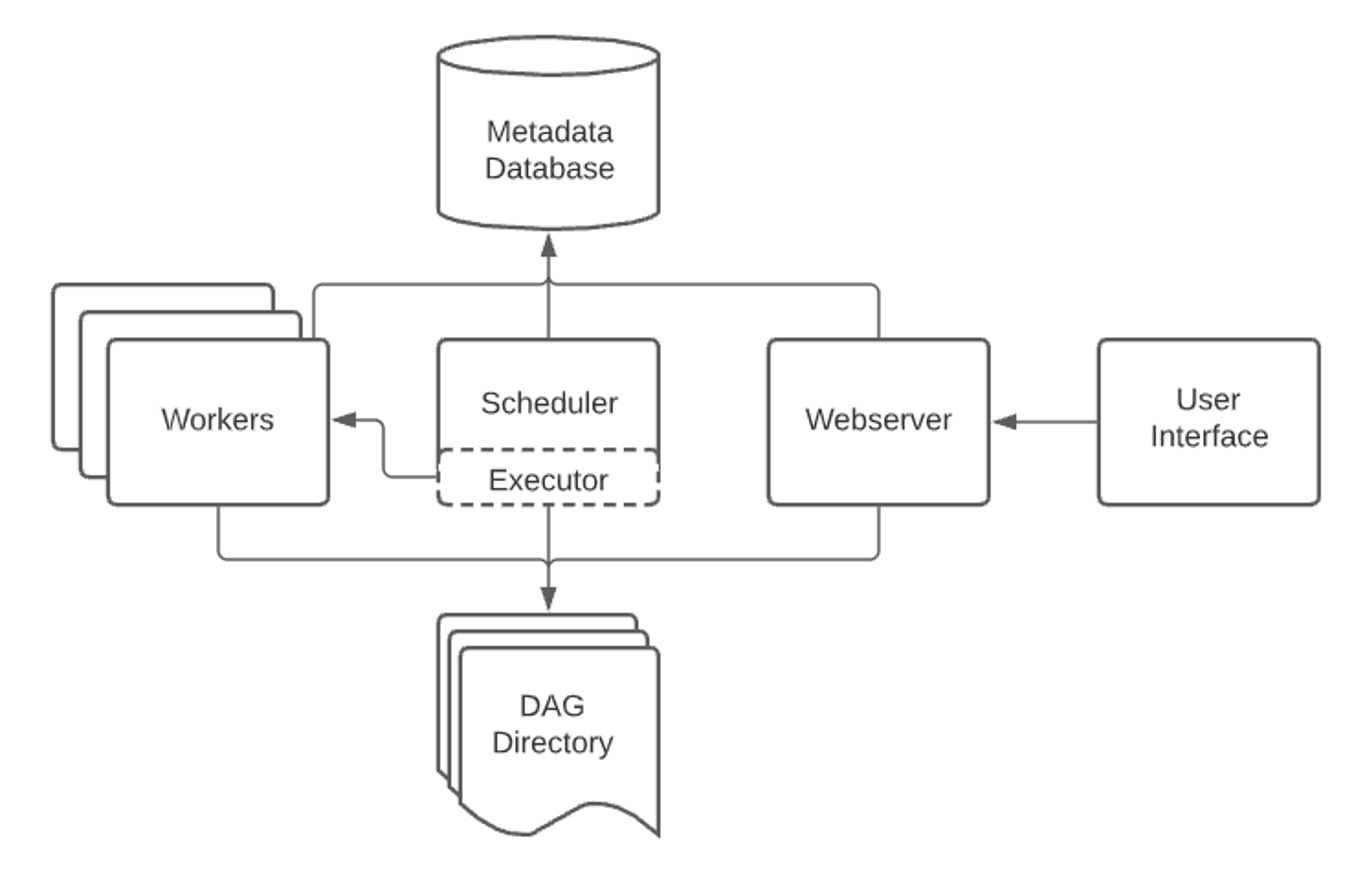
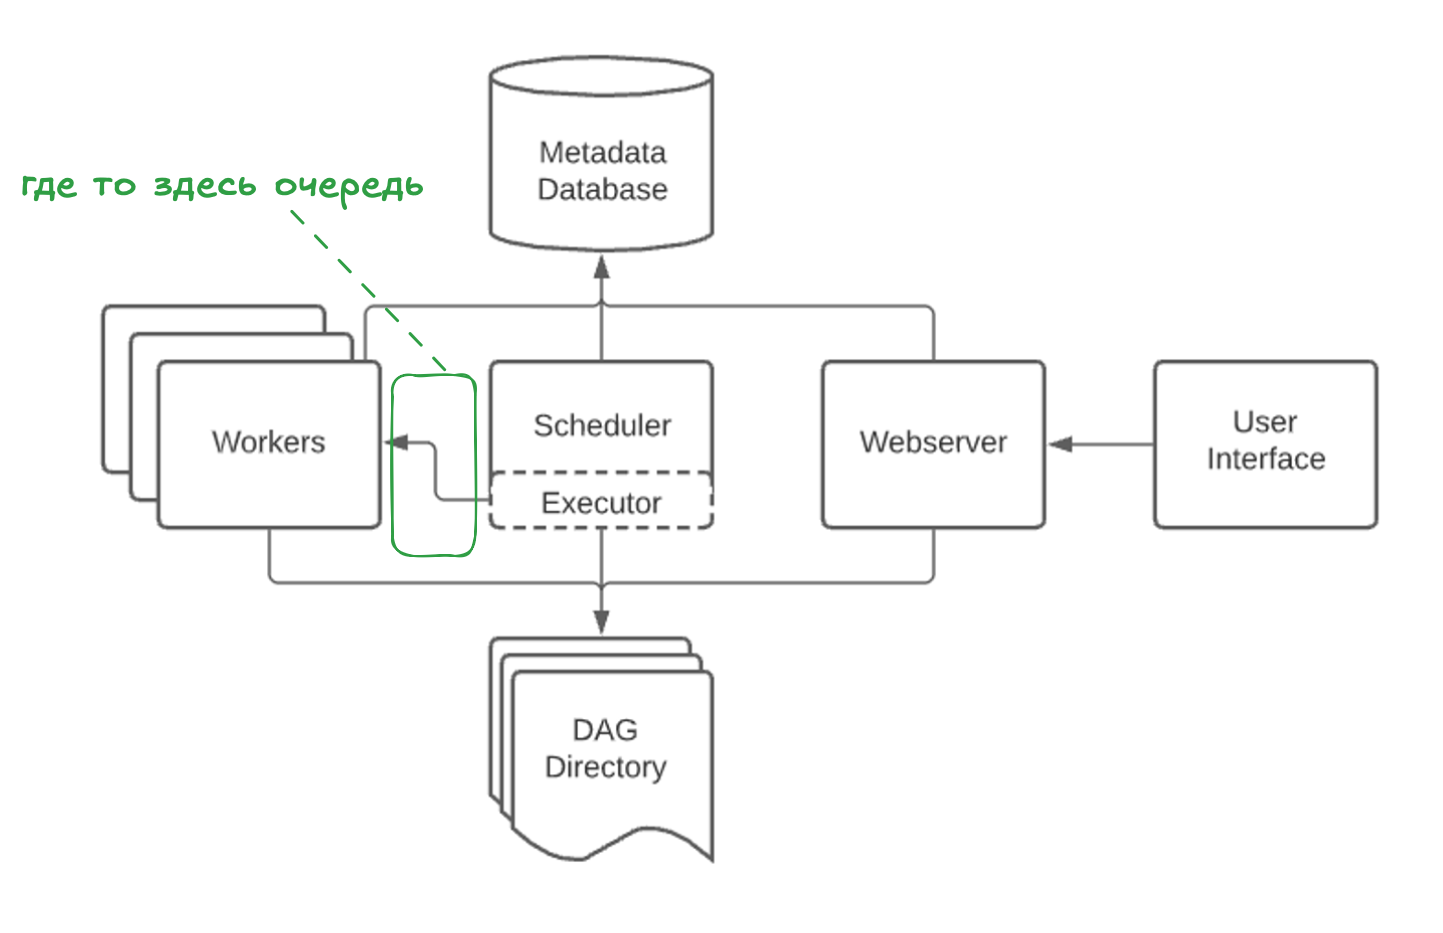
update

Changed region(s): [[0.0, 0.0304, 0.6457, 0.9426], [0.7379, 0.3649, 0.9839, 0.5777], [0.5534, 0.3649, 0.7379, 0.5777]]

diff --git a/apache_airflow/1.Введение в Apache Airflow.md b/apache_airflow/1.Введение в Apache Airflow.md
@@ -9,16 +9,6 @@ X.Y.Z
 - Y - дополнительный номер версии (**feature release**), выпускаются раз в несколько месяцев содержан новые функции внутри основной версии
 - Z - номер исправления (**patch release**), выпускаются по мере необходимости. Эти выпуски на 100% совместимы с предыдущими версиями и **всегда** необходимы для установки
 
-## Основные компоненты
-
-- **Scheduler (Планировщик)** - обрабатывает запуск дагов и задачи и отправкой задач на исполнитель
-- **Worker (Исполнитель)** - исполняет таски переданные из планировщика. Причем задачи могут выполняться на той же машине что и планировщик, так и отдельно
-- **Папка файлов с DAGs** - папка содержащая код ДАГов читаемая как планировщиком и исполнителем
-- **Webserver (Веб-сервер)** - пользовательский веб интерфейс.
-- **База данных с метаданными** - реляционная база данных (чаще всего PostgeSQL) используются планировщиком, исполнителем и веб сервером для хранения состояния  
-Общая архитектурная схема:
-![alt text](./pictures/arch_schema.png)
-
 ## Базовые абстракции
 
 - **DAG** - класс дага с набор тасок и зависимостями между ними, а также прочих настроек
@@ -27,13 +17,13 @@ X.Y.Z
 - **Task Instance** - конкретный *"запуск"* таски, также имеют собственные атрибуты
 ![alt text](./pictures/base_abstraction.png)
 
-## Поток управления
+## Эллементы DAGа
 
-Элементы потока управления:
+Элементы ДАГа:
 ![alt text](./pictures/dag_abstraction.png)
 
-- Все эллементы потока управления имеют зависимости друг от друга.
-- Выстраивание зависимостей между элементами потока управления создается с помощью операторов `>>` и `<<` или при помощи методов `set_upstream` и `set _downstream`
+- Все эллементы ДАГа имеют зависимости друг от друга.
+- Выстраивание зависимостей между элементами  создается с помощью операторов `>>` и `<<` или при помощи методов `set_upstream` и `set _downstream`
 
 ```python
 task_1 >> [task_2, task_3]
@@ -53,3 +43,22 @@ Dataset - это просто абстрактная сущность в apache 
 В айрфлоу можно выстраивать отношения между дагами  
 ![alt text](./pictures/dag_dependcies.png)
 Сделать это можно используя TriggerDagRunOperator, DagSensor или DataSet
+
+## Некоторые свойства DAG
+
+- Для создания ДАГа файл пайтон должен содержать создание экземпляра класса DAG
+`airflow.DAG`
+- За имя ДАГа внутри апач айрфлоу отвечает параметр `dag_id`. Имя файла может отличаться от имени дага
+- Параметр `start_date` отвечает за момент времени с которого начнет работать ДАГ, она также может быть в будущем
+- параметр `catchup` (True|False) отвечает за необходимость выполнения дагов с момента `start_date` через каждый промежуток согласно `schedule`
+![alt text](./pictures/catchup_explain.png)
+- `default_args` параметры передающиеся во все операторы внутри ДАГа, если они не указаны в нем явно
+- **бест практисом** является создание и вызов дага через контекстный менеджер:
+
+```python
+with DAG(
+    *args,
+    **kwargs,
+) as dag:
+    pass
+```

diff --git a/apache_airflow/2.Архитектура Apache Airflow.md b/apache_airflow/2.Архитектура Apache Airflow.md
@@ -1,0 +1,35 @@
+# Архитектура Apache Airflow
+
+Для создания ДАГа внутри айрфлоу - нужно создать python файл и физически разместить его в папку dags или во вложенные в нее папки, то есть папку в которой программа ожидает увидеть наши даги. Апач айрфлоу рекурсивно сканирует папку с ДАГами и пытается добавить их в БД как даг
+
+## Основные компоненты
+
+### Scheduler (Планировщик)
+
+- отслеживает появление ДАГов запуски ДАГов и тасок, а также обновляет статусы у ДАГ ранов и ТАСК инстансов
+
+Если упрощенно, планировщик это бесконечный цикл, который делает следующие шаги:
+
+1. Проверяет наличие ДАГов (классов внутри файлов в папке с дагами), которым требуется новый экземпляр ДАГ рана и создает их
+2. Проверяет ДАГ инстансы на задачи требующие выполнения (sheduleable)
+3. Проверяет запланированные таск-инстансы и ставит их в очередь на выполнение (передает в экзекьютор), соблюдая ограничения **пулла**
+
+Возможен запуск нескольких планировщиков, в этом случае коллизии работы над одним ДАГом или задачей будут решаться на уровне базы данных
+
+Виды тригеров:  
+![alt text](./pictures/triggers_diff.png)
+
+### **Executor (Исполнитель)**
+
+- компонент на стороне Scheduler который определяет, как и где будут выполняться задачи (локально или на удаленных воркерах, последовательно или паралельно)
+- **Queue (Очередь)** - компонент между планировщиком и исполнителем позволяющая масштабировать горизонтально айрфлоу. Также позволяет выбрать определенные машины для исполнения задач, т.к. машины могут быть распределены между разными очередями
+- **Worker (Работник)** - исполняет таски переданные из планировщика. Причем задачи могут выполняться на той же машине что и планировщик, так и отдельно
+- **Папка файлов с DAGs** - папка содержащая код ДАГов читаемая как планировщиком и исполнителем
+- **Webserver (Веб-сервер)** - пользовательский веб интерфейс.
+- **База данных с метаданными** - реляционная база данных (чаще всего PostgeSQL) используются планировщиком, исполнителем и веб сервером для хранения состояния  
+Общая архитектурная схема:  
+![alt text](./pictures/arch_schema.png)
+
+## Жизненный цикл задачи и ДАГа
+
+![alt text](./pictures/task_cycle.png)

diff --git a/docker_by_karpov_cource/1. Что такое docker.md b/docker_by_karpov_cource/1. Что такое docker.md
@@ -51,6 +51,7 @@
 - `docker run --name <имя> <образ>` - при создании присвоить имя контейнеру
 - `docker run --rm <образ>` - удалять контейнер после завершения его работы
 - `docker exec -d <образ>` - запуск контейнера в фоновом режиме. То есть программа не перехватывает управление
+- `docker inspect <имя контейнера>` - описание запущенного контейнера
 - `docker exec -it <имя контейнера> <имя программы>` - "вход"  и выполнение указанной программы внутри контейнера. В качестве <имя программы> можно использовать **bash**
 - `docker stop $(docker ps -q)` - остановка всех контейнеров по их id. Конструкция **`$(<команда>)`** передает результат команды внутри скобок наружу то-есть в ту команду где прописан доллар и скобки, это работает как для докера так и для **Bash**
 - `docker image rm` - удаление одного или нескольких образов
